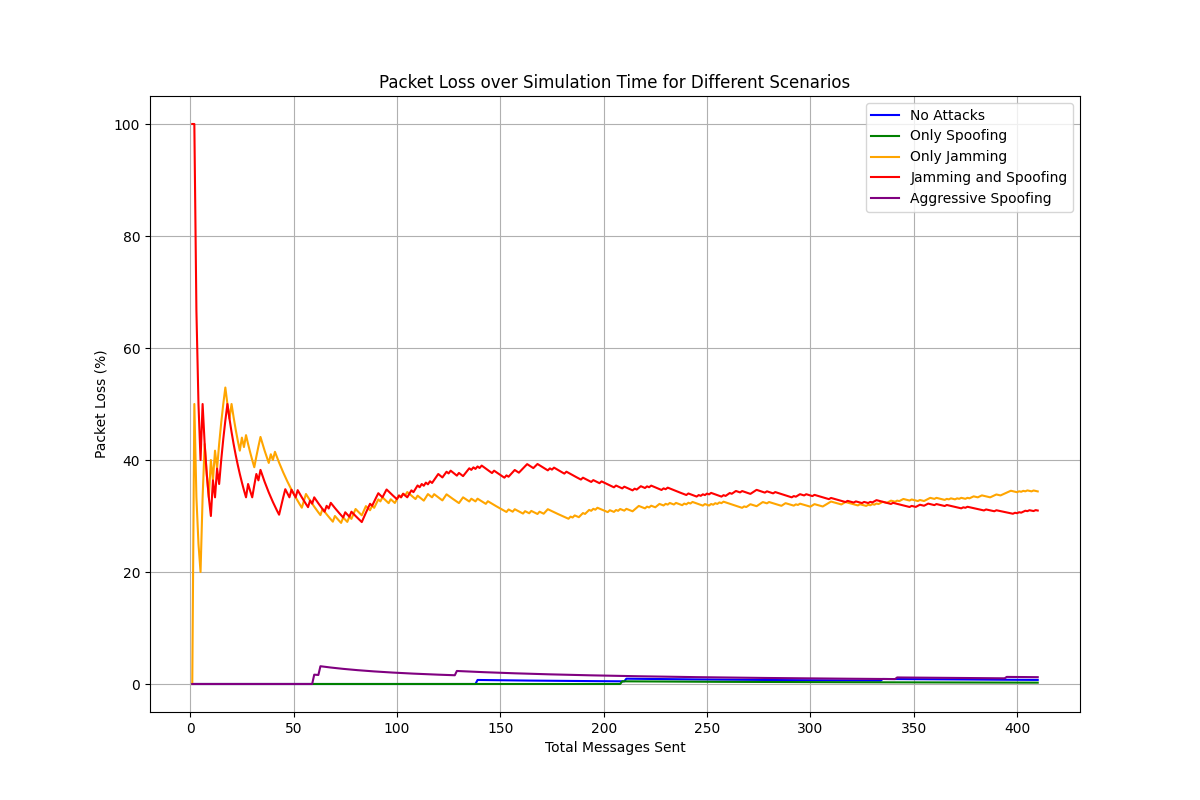
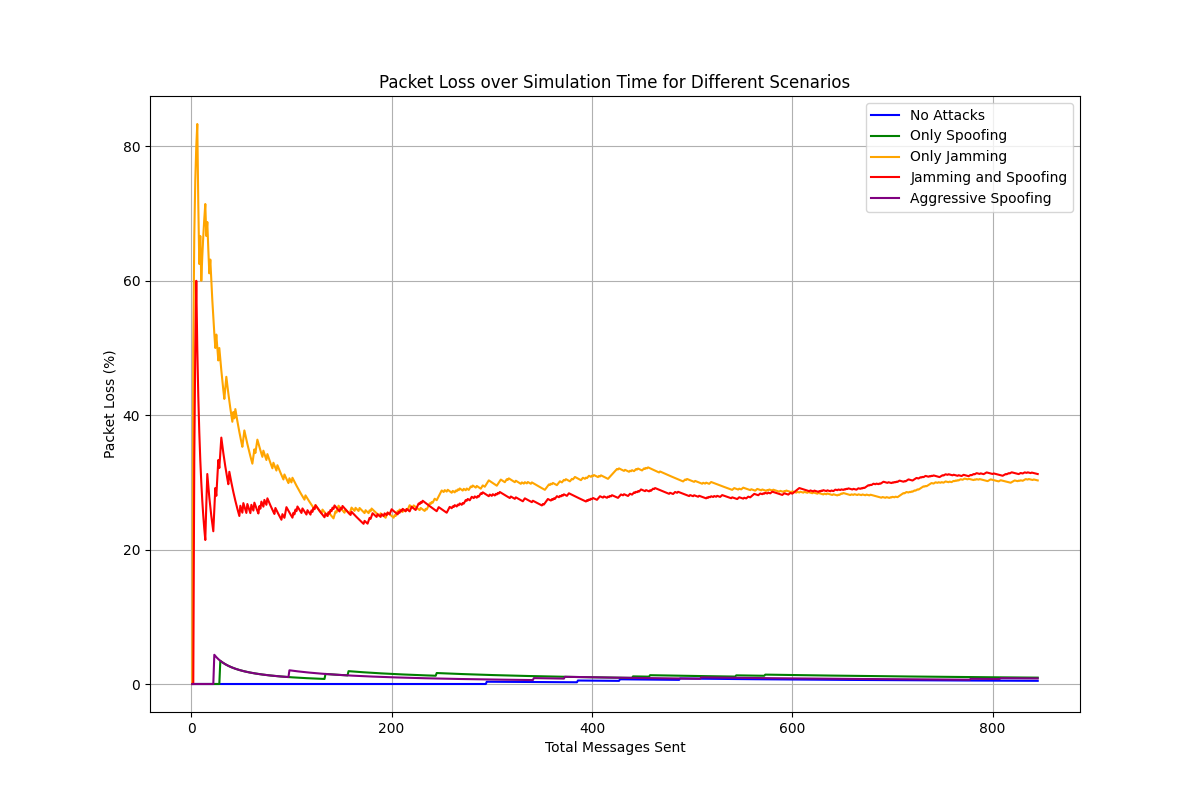
Working on n_scen_stat to get reasonable result

diff --git a/n_scen_stat.py b/n_scen_stat.py
@@ -6,6 +6,9 @@ from drone import Drone
 from route import RouteGenerator
 from gcs import GCS
 from adsbchannel import ADSBChannel
+from adsbmessage import ADSBMessage
+import pyModeS as pms
+
 from jammer import Jammer
 from spoofer import Spoofer
 import seaborn as sns
@@ -19,7 +22,7 @@ gcs = GCS(center_lat, center_lon)
 gcs_pos = (center_lat, center_lon)
 
 # Create a RouteGenerator instancz
-route_gen = RouteGenerator(center_lat, center_lon, num_routes=2, waypoints_per_route=5, max_offset=0.02)
+route_gen = RouteGenerator(center_lat, center_lon, num_routes=3, waypoints_per_route=5, max_offset=0.02)
 routes = route_gen.generate_routes()
 
 # Function to initialize drones
@@ -136,8 +139,13 @@ def plot_packet_loss_data(results, colors=None, output_path='results/packet_loss
 # Function to run a simulation scenario
 def run_simulation(jamming=False, spoofing=False, spoof_probability=0.3):
     channel = ADSBChannel()
-    jammer = Jammer(jamming_probability=0.4, noise_intensity=0.8) if jamming else None
-    spoofer = Spoofer(spoof_probability=spoof_probability, fake_drone_id="FAKE-DRONE") if spoofing else None
+    jammer = Jammer(jamming_type="PULSE",jamming_power_dbm=40, center_freq=1090e6, pulse_width_us=15.0, pulse_repetition_freq=2000.0)
+    spoofer = Spoofer(spoof_probability=spoof_probability, fake_drone_id="FAKE-DRONE")
+
+    if not jamming:
+        jammer = None 
+    if not spoofing:
+        spoofer = None
 
     drones = initialize_drones()
 
@@ -157,59 +165,66 @@ def run_simulation(jamming=False, spoofing=False, spoof_probability=0.3):
                 break
 
             send_time = time.time()
-            original_message = {
-                'drone_id': drone.id,
-                'latitude': drone.current_position[0],
-                'longitude': drone.current_position[1],
-                'altitude': drone.current_position[2],
-                'timestamp': send_time
-            }
 
-            received_message, delay_ns, corrupted, snr_db = channel.transmit(
-                original_message, gcs_pos, jammer=jammer, spoofer=spoofer
+            # original_message = {
+            #     'drone_id': drone.id,
+            #     'latitude': drone.current_position[0],
+            #     'longitude': drone.current_position[1],
+            #     'altitude': drone.current_position[2],
+            #     'timestamp': send_time
+            # }
+
+            distance = ADSBChannel._haversine_distance(drone.current_position[0], drone.current_position[1], gcs_pos[0], gcs_pos[1])
+            original_adsb_message = ADSBMessage(drone.id, drone.current_position[2], drone.current_position[0], drone.current_position[1])
+
+            received_df17_even, received_df17_odd, delay_ns, corrupted, snr_db, spoofed, jammed = channel.transmit(
+                distance, original_adsb_message, jammer=jammer, spoofer=spoofer
             )
+
             receive_time = time.time()
             total_messages += 1
 
-            if jamming and jammer:
-                received_message, jammed = jammer.jam_signal(received_message)
-                if jammed and received_message is None:
-                    lost_messages += 1
-                    packet_loss_over_time.append((total_messages, lost_messages / total_messages * 100))
-                    continue
-
-            if spoofing and spoofer:
-                received_message, spoofed = spoofer.spoof_message(received_message)
-
-            gcs.receive_update(
-                received_message['drone_id'],
-                (
-                    received_message['latitude'],
-                    received_message['longitude'],
-                    received_message['altitude']
-                )
-            )
-
-            if corrupted and not (jamming and jammed):
+            if corrupted:
                 lost_messages += 1
+                packet_loss_over_time.append((total_messages, lost_messages / total_messages * 100))
+                continue
+                
+            else:
+                latitude, longitude = pms.adsb.position(received_df17_even, received_df17_odd, time.time(), time.time()+1)
+                altitude = pms.adsb.altitude(received_df17_even)
 
-            packet_loss_over_time.append((total_messages, lost_messages / total_messages * 100))
-            snr_values.append((total_messages, snr_db))
+                received_message = {
+                    'drone_id': pms.adsb.icao(received_df17_even),
+                    'latitude': latitude,
+                    'longitude': longitude,
+                    'altitude': altitude
+                } 
 
-            # Calculate latency in milliseconds
-            latency = (receive_time - send_time) * 1000
-            latency_values.append((total_messages, latency))
+                gcs.receive_update(
+                    received_message['drone_id'],
+                    (
+                        received_message['latitude'],
+                        received_message['longitude'],
+                        received_message['altitude']
+                    )
+                )
 
-            # Calculate throughput (messages per second)
-            elapsed_time = receive_time - start_time
-            throughput = total_messages / elapsed_time
-            throughput_values.append((elapsed_time, throughput))
+                packet_loss_over_time.append((total_messages, lost_messages / total_messages * 100))
+                snr_values.append((total_messages, snr_db))
+
+                # Calculate latency in milliseconds
+                latency = (receive_time - send_time) * 1000
+                latency_values.append((total_messages, latency))
+
+                # Calculate throughput (messages per second)
+                elapsed_time = receive_time - start_time
+                throughput = total_messages / elapsed_time
+                throughput_values.append((elapsed_time, throughput))
 
     return packet_loss_over_time, snr_values, latency_values, throughput_values
 
 
 
-# Run simulations for each scenario and collect results
 # Run simulations for each scenario and collect results
 results = {}
 for scenario, params in scenarios.items():

diff --git a/adsbchannel.py b/adsbchannel.py
@@ -45,7 +45,7 @@ class ADSBChannel:
         # Corrupt a specific bit in the message
         # This is for jamming effect...
         byte_index = bit_index // 8
-        bit_offset = 7 - (bit_index % 8)      # Flipping the MSB first..
+        bit_offset = 7 - (bit_index % 8)             # Flipping the MSB first..
         byte_array[byte_index] ^= (1 << bit_offset)  # Flip the bit!
 
         hex_string = byte_array.hex()
@@ -74,21 +74,25 @@ class ADSBChannel:
 
         # Encode the message into df17 format
         result_df17_even, result_df17_odd = original_message.encode()
-        
         snr_db = rx_power_dbm - (noise_power_dbm + self.noise_figure_db)
 
         jamming_signal_power_dbm = 0
         effective_spoofing_signal_power_dbm = 0
+
+        for_stat_jammed = False
+        for_stat_spoofed = False
         
         # Apply spoofing effects if a spoofer is present
         if spoofer:
             spoofed_df17_even, spoofed_df17_odd, spoofed = spoofer.spoof_message(result_df17_even, result_df17_odd)
             if spoofed:
                 # Assuming the spoofed message interferes with the legitimate signal
-                spoofing_signal_power_dbm = spoofer.spoof_signal_power(snr_db) # snr_db at the moment = rx_power_dbm - (noise_power_dbm + self.noise_figure_db)
+                spoofing_signal_power_dbm = spoofer.spoof_signal_power(snr_db) # Current SNR
                 effective_spoofing_signal_power_dbm = 10 * np.log10(10**(noise_power_dbm / 10) + 10**(spoofing_signal_power_dbm / 10))
                 result_df17_even = spoofed_df17_even
                 result_df17_odd  = spoofed_df17_odd
+                #time.sleep(1e-4)
+                for_stat_spoofed = True
 
         # Apply jamming effects if a spoofer is present
         if jammer:
@@ -115,10 +119,11 @@ class ADSBChannel:
                     if random.random() < bit_error_prob:
                         result_df17_even = self.corrupt_bit(result_df17_even, bit_index)
                         result_df17_odd = self.corrupt_bit(result_df17_odd, bit_index)        
+                        for_stat_jammed = True
 
         # Calculate overall SNR
-        snr_db = snr_db - jamming_signal_power_dbm
-        snr_db = snr_db - effective_spoofing_signal_power_dbm
+        snr_db -= jamming_signal_power_dbm
+        snr_db -= effective_spoofing_signal_power_dbm
 
         # Since we are now using the bit-by-bit transmission and have ability to corrupt some bits within the message,
         # corruption will be simulated that way, rather than just compensating random value to the position.
@@ -131,13 +136,14 @@ class ADSBChannel:
         # print(parity_even, crc_result_even)
 
         corrupted = False
+
         if crc_result_even != parity_even or crc_result_odd != parity_odd:
             corrupted = True
         
-        if snr_db < 0:
-            corrupted = True        
+        if snr_db < 0 or random.random() < self.error_rate:
+            corrupted = True  
 
-        return result_df17_even, result_df17_odd, delay_ns, corrupted, snr_db
+        return result_df17_even, result_df17_odd, delay_ns, corrupted, snr_db, for_stat_spoofed, for_stat_jammed
 
 
     # def corrupt_message(self, message):

diff --git a/n_scen_adsb_attack.py b/n_scen_adsb_attack.py
@@ -49,11 +49,11 @@ drones = [
 # Initialize the communication channel, jammer, and spoofer
 channel = ADSBChannel()
 
-# jammer = Jammer(jamming_type="CW", jamming_power_dbm=45, center_freq=1090e6, offset_freq=0.2e6)
-jammer = Jammer(jamming_type="PULSE",jamming_power_dbm=45, center_freq=1090e6, pulse_width_us=15.0, pulse_repetition_freq=2000.0)
-# jammer = None
+#jammer = Jammer(jamming_type="CW", jamming_power_dbm=45, center_freq=1090e6, offset_freq=0.2e6)
+#jammer = Jammer(jamming_type="PULSE",jamming_power_dbm=45, center_freq=1090e6, pulse_width_us=15.0, pulse_repetition_freq=2000.0)
+jammer = None
 spoofer = Spoofer(spoof_probability=0.7, fake_drone_id="FAKE-DRONE")
-# spoofer = None
+
 
 # Create a figure for 3D plotting
 fig = plt.figure()
@@ -110,7 +110,7 @@ def update(frame):
             distance = ADSBChannel._haversine_distance(drone.current_position[0], drone.current_position[1], gcs_pos[0], gcs_pos[1])
 
             # Step 2: Simulate transmission from the drone to the GCS
-            received_df17_even, received_df17_odd, delay_ns, corrupted, snr_db = channel.transmit(
+            received_df17_even, received_df17_odd, delay_ns, corrupted, snr_db, _, _ = channel.transmit(
                 distance, original_message, jammer=jammer, spoofer=spoofer
             )
 

diff --git a/jammer.py b/jammer.py
@@ -14,11 +14,11 @@ from math import cos, radians
 class Jammer:
     def __init__(self,
                     jamming_type: str,
-                    jamming_power_dbm: float, # Base transmission power
+                    jamming_power_dbm: float,         # Base transmission power
                     center_freq: float = 1090e6,      # Center frequency (Hz) - defaults to ADS-B frequency
 
                     # CW specific parameters
-                    offset_freq: float = 0.0,      # Frequency offset for CW (Hz)
+                    offset_freq: float = 0.0,         # Frequency offset for CW (Hz)
 
                     # Pulse noise specific parameters
                     pulse_width_us: float = 1.0,            # Pulse duration

diff --git a/spoofer.py b/spoofer.py
@@ -117,7 +117,8 @@ class Spoofer:
 
     def spoof_signal_power(self, snr_db):
         # Set spoofing signal power dynamically based on SNR threshold
-        target_snr = 17.5  # dB        
+        # This approach assumes that the attacker knows the transmission power of the drone
+
+        target_snr = 45  # dB        
         max_interference_power = snr_db - target_snr
-        spoofing_power = max_interference_power - 1.0
-        return spoofing_power
+        return max_interference_power
